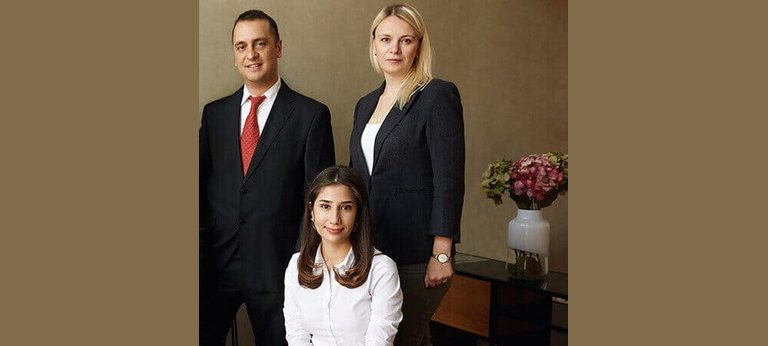
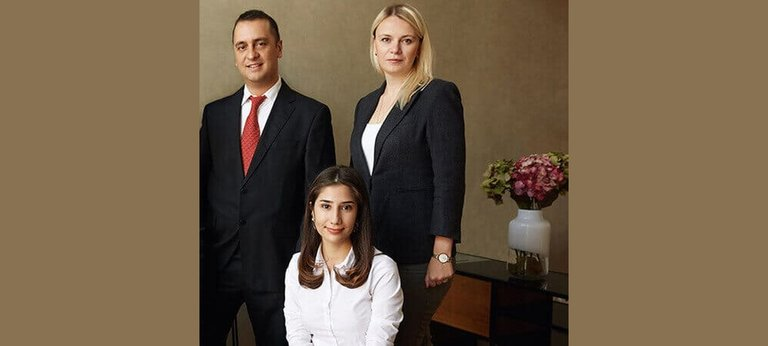
Fix homepage layout break from tall team photo (1.9.65)
Letterbox the cropped team portrait back to landscape and force
background-size:cover on the Enfold column that uses it.

diff --git a/fixes/mu-plugins/cindemir-seo-fixes.php b/fixes/mu-plugins/cindemir-seo-fixes.php
@@ -1,9 +1,9 @@
 <?php
-/* SERVICES_EMBED_DEPLOY_MARKER 1.9.64 + SERVICES_BLANK_FIX_20260715 + TEAM_PHOTO_SYNC_20260718B */
+/* SERVICES_EMBED_DEPLOY_MARKER 1.9.65 + SERVICES_BLANK_FIX_20260715 + TEAM_PHOTO_SYNC_20260718B */
 /**
  * Plugin Name: Cindemir SEO Fixes
  * Description: Full Ahrefs cleanup: redirect href rewrite, flatten hops, H1/alts/orphans, author disable, title trim.
- * Version: 1.9.64
+ * Version: 1.9.65
  * SERVICES_BLANK_FIX_20260715
  * Author: Cindemir Law Office
  */
@@ -172,11 +172,11 @@ final class Cindemir_SEO_Fixes {
 		'/russian/wp-content/uploads/2014/11/white-2-copy.jpg' => '/wp-content/uploads/2020/10/white-2-copy-300x300.jpg',
 	);
 
-	const VERSION = '1.9.64';
+	const VERSION = '1.9.65';
 
 	/** One-shot team photo refresh (remove departed colleague from group shot). */
-	const TEAM_PHOTO_SYNC_KEY = 'cindemir_team_photo_sync_20260718e';
-	const TEAM_PHOTO_CACHE_VER = '20260718e';
+	const TEAM_PHOTO_SYNC_KEY = 'cindemir_team_photo_sync_20260718f';
+	const TEAM_PHOTO_CACHE_VER = '20260718f';
 
 	/** Deploy freshness marker for pull-plugins. */
 	const DEPLOY_MARKER = 'TEAM_PHOTO_SYNC_20260718B';
@@ -272,6 +272,7 @@ final class Cindemir_SEO_Fixes {
 		add_action( 'wp_footer', array( __CLASS__, 'version_marker' ), 99 );
 		add_action( 'wp_head', array( __CLASS__, 'header_brand_styles' ), 50 );
 		add_action( 'wp_head', array( __CLASS__, 'homepage_hero_styles' ), 51 );
+		add_action( 'wp_head', array( __CLASS__, 'team_photo_background_fix' ), 52 );
 		add_action( 'wp_head', array( __CLASS__, 'pagespeed_head_hints' ), 1 );
 		add_action( 'wp_head', array( __CLASS__, 'pagespeed_a11y_styles' ), 52 );
 		add_action( 'wp_enqueue_scripts', array( __CLASS__, 'pagespeed_dequeue_heavy' ), 100 );
@@ -514,9 +515,9 @@ final class Cindemir_SEO_Fixes {
 			'https://fastly.jsdelivr.net/gh/gcindemir/cindemir@' . $branch . '/fixes/media/team-2026/',
 		);
 		$files  = array(
-			'5295681199059.jpg'           => 90000,
-			'5295681199059.webp'          => 40000,
-			'5295681199059.jpg.webp'      => 40000,
+			'5295681199059.jpg'           => 40000,
+			'5295681199059.webp'          => 20000,
+			'5295681199059.jpg.webp'      => 20000,
 			'5295681199059-300x135.jpg'   => 3000,
 			'5295681199059-300x135.webp'  => 2000,
 			'5295681199059-705x318.jpg'   => 8000,
@@ -2068,7 +2069,18 @@ JS;
 	 * Friendlier homepage entrance. Applies through Enfold's burger breakpoint (989px)
 	 * so phones AND tablets see the team photo; desktop also gets a cleaner crop/copy.
 	 */
-	public static function homepage_hero_styles() {
+		/** Keep Enfold team-photo background columns from exploding with non-landscape assets. */
+	public static function team_photo_background_fix() {
+		echo '<style id="cindemir-team-photo-bg">'
+			. '.flex_column.av-kb0bnfzj-6b756727d2887e26a4cf2233375d0c98,'
+			. '.flex_column[style*="5295681199059"],'
+			. '.avia-section .flex_column[class*="av-"][style*="529568"]{'
+			. 'background-size:cover!important;background-position:center center!important;'
+			. 'background-repeat:no-repeat!important}'
+			. '</style>\n';
+	}
+
+public static function homepage_hero_styles() {
 		if ( is_admin() ) {
 			return;
 		}
